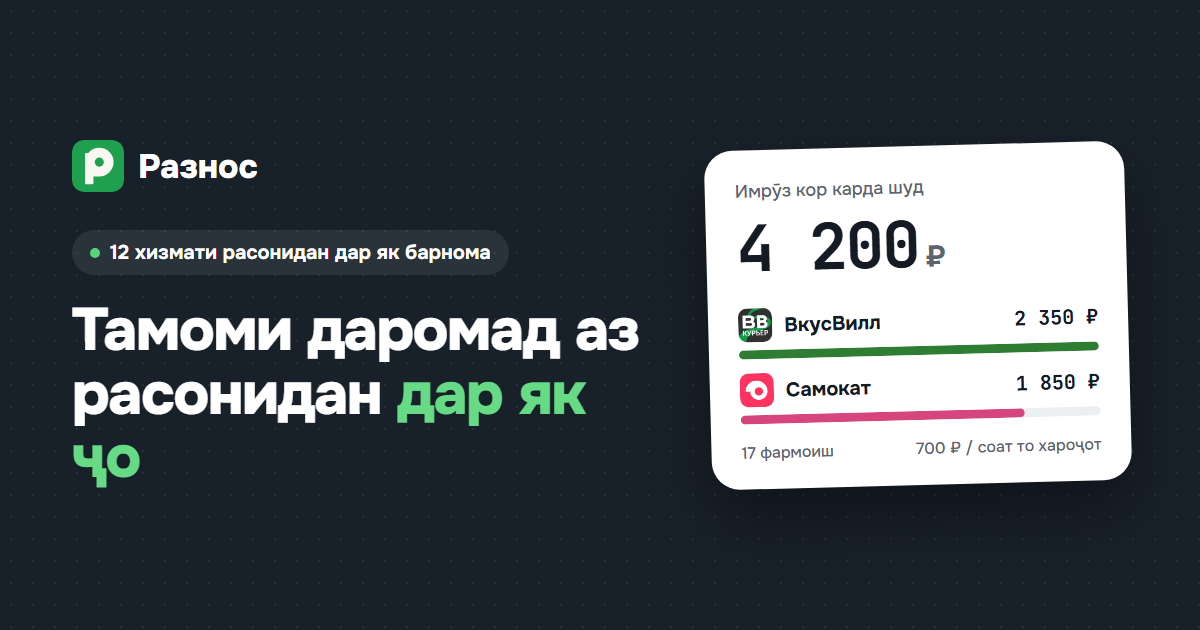
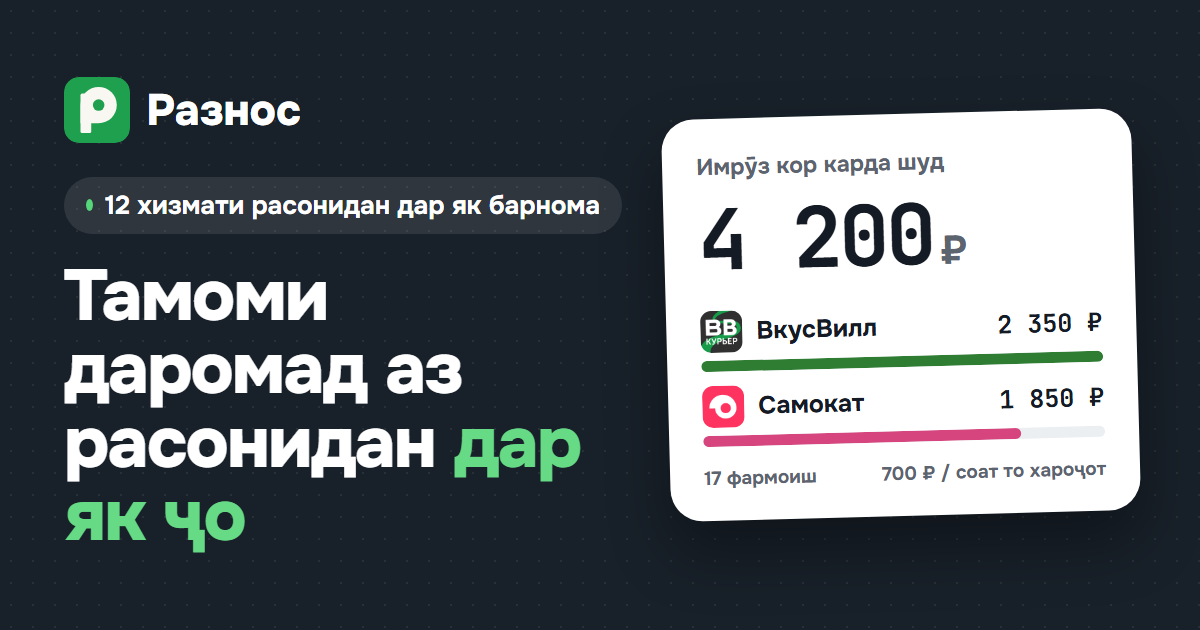
update landing

Changed region(s): [[0.0308, 0.1508, 0.9558, 0.8746], [0.0308, 0.1206, 0.4933, 0.3619]]

diff --git a/hy/index.html b/hy/index.html
@@ -8,7 +8,7 @@
     <meta name="description" content="Եկամուտը Самокат-ից, ВкусВилл-ից, Яндекс Про-ից և այլ ծառայություններից մեկ էկրանում. Որքան է մնում ծախսերից հետո և որտեղ են հիմա ավելի շատ վճարում" />
     <meta property="og:type" content="website" />
     <meta property="og:site_name" content="Разнос" />
-    <meta property="og:title" content="Разнос: սուրհանդակի ամբողջ եկամուտը մեկ հավելվածում" />
+    <meta property="og:title" content="Սուրհանդակի ամբողջ եկամուտը մեկ հավելվածում" />
     <meta property="og:description" content="Եկամուտը Самокат-ից, ВкусВилл-ից, Яндекс Про-ից և այլ ծառայություններից մեկ էկրանում. Որքան է մնում ծախսերից հետո և որտեղ են հիմա ավելի շատ վճարում" />
     <meta property="og:image" content="https://crutch12.github.io/raz-land/hy/og/og-hy.png" />
     <meta property="og:image:width" content="1200" />

diff --git a/ky/index.html b/ky/index.html
@@ -8,7 +8,7 @@
     <meta name="description" content="Самокат, ВкусВилл, Яндекс Про жана башка кызматтардан киреше бир экранда. Чыгымдан кийин канча калат жана азыр кайсы жерде көбүрөөк төлөйт" />
     <meta property="og:type" content="website" />
     <meta property="og:site_name" content="Разнос" />
-    <meta property="og:title" content="Разнос: курьердин бардык кирешеси бир колдонмодо" />
+    <meta property="og:title" content="Курьердин бардык кирешеси бир колдонмодо" />
     <meta property="og:description" content="Самокат, ВкусВилл, Яндекс Про жана башка кызматтардан киреше бир экранда. Чыгымдан кийин канча калат жана азыр кайсы жерде көбүрөөк төлөйт" />
     <meta property="og:image" content="https://crutch12.github.io/raz-land/ky/og/og-ky.png" />
     <meta property="og:image:width" content="1200" />

diff --git a/index.html b/index.html
@@ -7,7 +7,7 @@
     <meta name="description" content="Доход из Самоката, ВкусВилла, Яндекс Про и других сервисов на одном экране. Сколько остаётся после расходов и где сейчас платят больше" />
     <meta property="og:type" content="website" />
     <meta property="og:site_name" content="Разнос" />
-    <meta property="og:title" content="Разнос: весь заработок курьера в одном приложении" />
+    <meta property="og:title" content="Весь заработок курьера в одном приложении" />
     <meta property="og:description" content="Доход из Самоката, ВкусВилла, Яндекс Про и других сервисов на одном экране. Сколько остаётся после расходов и где сейчас платят больше" />
     <meta property="og:image" content="https://crutch12.github.io/raz-land/og/og-ru.png" />
     <meta property="og:image:width" content="1200" />

diff --git a/tg/index.html b/tg/index.html
@@ -8,7 +8,7 @@
     <meta name="description" content="Даромад аз Самокат, ВкусВилл, Яндекс Про ва дигар хизматҳо дар як экран. Пас аз хароҷот чӣ қадар мемонад ва ҳоло дар куҷо бештар медиҳанд" />
     <meta property="og:type" content="website" />
     <meta property="og:site_name" content="Разнос" />
-    <meta property="og:title" content="Разнос: тамоми даромади курьер дар як барнома" />
+    <meta property="og:title" content="Тамоми даромади курьер дар як барнома" />
     <meta property="og:description" content="Даромад аз Самокат, ВкусВилл, Яндекс Про ва дигар хизматҳо дар як экран. Пас аз хароҷот чӣ қадар мемонад ва ҳоло дар куҷо бештар медиҳанд" />
     <meta property="og:image" content="https://crutch12.github.io/raz-land/tg/og/og-tg.png" />
     <meta property="og:image:width" content="1200" />

diff --git a/uz/index.html b/uz/index.html
@@ -8,7 +8,7 @@
     <meta name="description" content="Самокат, ВкусВилл, Яндекс Про va boshqa servislardagi daromad bitta ekranda. Xarajatlardan keyin qancha qolishi va hozir qayerda ko&#x27;proq to&#x27;lashi" />
     <meta property="og:type" content="website" />
     <meta property="og:site_name" content="Разнос" />
-    <meta property="og:title" content="Разнос: kuryerning butun daromadi bitta ilovada" />
+    <meta property="og:title" content="Kuryerning butun daromadi bitta ilovada" />
     <meta property="og:description" content="Самокат, ВкусВилл, Яндекс Про va boshqa servislardagi daromad bitta ekranda. Xarajatlardan keyin qancha qolishi va hozir qayerda ko&#x27;proq to&#x27;lashi" />
     <meta property="og:image" content="https://crutch12.github.io/raz-land/uz/og/og-uz.png" />
     <meta property="og:image:width" content="1200" />

diff --git a/en/index.html b/en/index.html
@@ -8,7 +8,7 @@
     <meta name="description" content="Income from Samokat, VkusVill, Yandex Pro and other delivery services on one screen. See what is left after costs and where it pays more right now" />
     <meta property="og:type" content="website" />
     <meta property="og:site_name" content="Разнос" />
-    <meta property="og:title" content="Raznos: all your courier earnings in one app" />
+    <meta property="og:title" content="All your courier earnings in one app" />
     <meta property="og:description" content="Income from Samokat, VkusVill, Yandex Pro and other delivery services on one screen. See what is left after costs and where it pays more right now" />
     <meta property="og:image" content="https://crutch12.github.io/raz-land/en/og/og-en.png" />
     <meta property="og:image:width" content="1200" />
